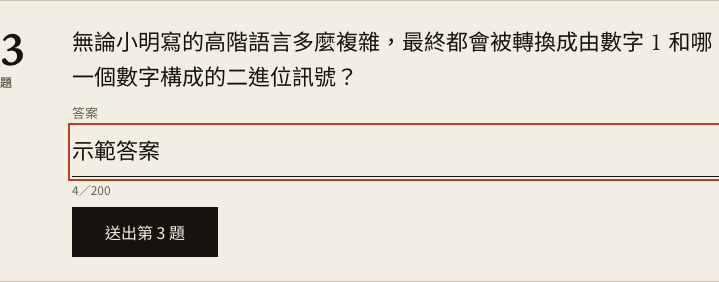
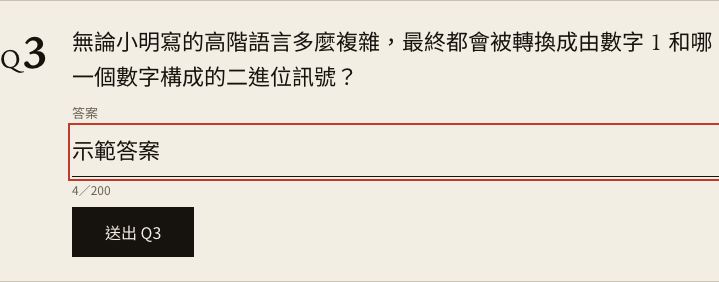
feat(web): 題號改成 Q1／Q2 形式（螢幕閱讀器仍讀「第 N 題」）

Changed region(s): [[0.1836, 0.7092, 0.306, 0.9362], [0.0, 0.1135, 0.0612, 0.3121]]

diff --git a/web/src/features/student/AnswerArea.tsx b/web/src/features/student/AnswerArea.tsx
@@ -1,6 +1,7 @@
 import { useRef, useState } from 'react';
 import type { StudentOpenAnswer, StudentOpenSnapshot, StudentQuestion } from '@classroom/shared';
 import { sendCommand } from '../../lib/socket';
+import { QuestionNumber } from '../shared/QuestionNumber';
 import { activateDraftSession, writeAnswerDrafts, type AnswerDraftMap } from './answerDrafts';
 import styles from './AnswerArea.module.css';
 
@@ -168,12 +169,8 @@ function AnswerAreaContent({ snapshot }: AnswerAreaProps) {
                 aria-labelledby={`question-${question.number}-title`}
               >
                 <h3 id={`question-${question.number}-title`} className={styles.questionTitle}>
-                  {/* 語意標籤只給螢幕閱讀器；視覺上是試卷上的大題號。 */}
-                  <span className={styles.visuallyHidden}>{`第 ${question.number} 題`}</span>
-                  <span className={styles.questionNumber} aria-hidden="true">
-                    <span className={styles.questionNumberValue}>{question.number}</span>
-                    <span className={styles.questionNumberUnit}>題</span>
-                  </span>
+                  {/* 語意標籤只給螢幕閱讀器；視覺上是 Q1／Q2。 */}
+                  <QuestionNumber number={question.number} />
                 </h3>
                 {/* 內容固定在右欄：題號欄不會被內容擠開（2026-11-19 review）。 */}
                 <div className={styles.questionBody}>
@@ -283,11 +280,27 @@ function AnswerAreaContent({ snapshot }: AnswerAreaProps) {
                     void submit(question);
                   }}
                 >
-                  {isSubmitted
-                    ? '已送出'
-                    : isSubmitting
-                      ? `送出第 ${question.number} 題中…`
-                      : `送出第 ${question.number} 題`}
+                  {/*
+                   * 可讀名稱維持中文「送出第 N 題」，視覺上是「送出 Q N」；
+                   * 已送出的狀態文字則原樣顯示（螢幕閱讀器讀「已送出」）。
+                   */}
+                  {isSubmitted ? (
+                    '已送出'
+                  ) : isSubmitting ? (
+                    <>
+                      <span className="visually-hidden">
+                        {`送出第 ${question.number} 題中…`}
+                      </span>
+                      <span aria-hidden="true">{`送出 Q${question.number} 中…`}</span>
+                    </>
+                  ) : (
+                    <>
+                      <span className="visually-hidden">
+                        {`送出第 ${question.number} 題`}
+                      </span>
+                      <span aria-hidden="true">{`送出 Q${question.number}`}</span>
+                    </>
+                  )}
                 </button>
                 </div>
               </section>

diff --git a/web/src/features/projector/ProjectorPage.tsx b/web/src/features/projector/ProjectorPage.tsx
@@ -2,6 +2,7 @@ import type { Phase, ProjectorSnapshot, Snapshot } from '@classroom/shared';
 import { Link } from 'react-router';
 import { Countdown } from '../shared/Countdown';
 import { phaseStyleClass } from '../shared/phaseStyle';
+import { QuestionNumber } from '../shared/QuestionNumber';
 import { TeacherLogin } from '../teacher/TeacherLogin';
 import styles from './ProjectorPage.module.css';
 
@@ -102,16 +103,7 @@ export function ProjectorPage({ snapshot }: ProjectorPageProps) {
               {projector.reveal.questions.map((entry) => (
                 <li key={entry.questionNumber} className={styles.revealItem}>
                   <span className={styles.revealNumber}>
-                    <span className={styles.revealNumberValue} aria-hidden="true">
-                      {entry.questionNumber}
-                    </span>
-                    <span className={styles.revealNumberUnit} aria-hidden="true">
-                      題
-                    </span>
-                    {/* 螢幕閱讀器用的「第 N 題」：視覺上隱藏，畫面只留大題號。 */}
-                    <span className={styles.visuallyHidden}>
-                      {`第 ${entry.questionNumber} 題`}
-                    </span>
+                    <QuestionNumber number={entry.questionNumber} />
                   </span>
                   <span
                     className={

diff --git a/web/src/features/teacher/AnswerBoard.tsx b/web/src/features/teacher/AnswerBoard.tsx
@@ -1,6 +1,7 @@
 import { useState } from 'react';
 import type { AnswerBoardCell, TeacherSnapshot } from '@classroom/shared';
 import { sendCommand } from '../../lib/socket';
+import { QuestionNumber } from '../shared/QuestionNumber';
 import styles from './AnswerBoard.module.css';
 
 export type AnswerBoardProps = {
@@ -131,7 +132,7 @@ export function AnswerBoard({ snapshot }: AnswerBoardProps) {
                 {snapshot.board.map((question) => (
                   <tr key={question.questionNumber}>
                     <th scope="row" className={styles.questionCell}>
-                      第 {question.questionNumber} 題
+                      <QuestionNumber number={question.questionNumber} />
                     </th>
                     {question.cells.map((cell) => {
                       const key = cellKey(cell);
@@ -237,7 +238,7 @@ export function AnswerBoard({ snapshot }: AnswerBoardProps) {
             <ul className={styles.progressList} aria-label="每一題已送出的組數">
               {snapshot.progress.perQuestion.map((entry) => (
                 <li key={entry.questionNumber}>
-                  第 {entry.questionNumber} 題：
+                  {`第 ${entry.questionNumber} 題：`}
                   {entry.submittedGroupCount} 組送出
                 </li>
               ))}

diff --git a/web/src/features/student/AnswerArea.module.css b/web/src/features/student/AnswerArea.module.css
@@ -54,6 +54,9 @@
 .questionTitle {
   grid-column: 1;
   grid-row: 1;
+  /* Q1／Q2 是這張紙上最大的字。 */
+  font-size: var(--font-size-display);
+  line-height: var(--line-height-display);
 }
 
 .questionBody {
@@ -63,39 +66,6 @@
   gap: var(--space-2);
   justify-items: stretch;
   min-width: 0;
-}
-
-/* 題號：大字襯線數字 + 小單位「題」。 */
-.questionNumber {
-  display: grid;
-  justify-items: start;
-  gap: var(--space-0);
-}
-
-.questionNumberValue {
-  font-family: var(--font-family-display);
-  font-size: var(--font-size-display);
-  font-weight: 600;
-  line-height: var(--line-height-display);
-}
-
-.questionNumberUnit {
-  font-family: var(--font-family-utility);
-  font-size: var(--font-size-caption);
-  letter-spacing: var(--letter-spacing-utility);
-  color: var(--color-ink-muted);
-}
-
-/* 只給螢幕閱讀器看的文字（題號的語意標籤）。 */
-.visuallyHidden {
-  position: absolute;
-  width: 1px;
-  height: 1px;
-  margin: -1px;
-  padding: 0;
-  overflow: hidden;
-  clip-path: inset(50%);
-  white-space: nowrap;
 }
 
 .prompt {
@@ -192,7 +162,7 @@
     gap: var(--space-2) var(--space-3);
   }
 
-  .questionNumberValue {
+  .questionTitle {
     font-size: var(--font-size-headline);
   }
 

diff --git a/web/src/features/teacher/QuestionList.tsx b/web/src/features/teacher/QuestionList.tsx
@@ -1,4 +1,5 @@
 import type { QuestionKind, QuestionSummary } from '@classroom/shared';
+import { QuestionNumber } from '../shared/QuestionNumber';
 import styles from './QuestionList.module.css';
 
 export type QuestionListProps = {
@@ -21,7 +22,9 @@ export function QuestionList({ questions }: QuestionListProps) {
         <ol className={styles.list} aria-label="已匯入題目">
           {questions.map((question) => (
             <li className={styles.question} key={question.number}>
-              <strong>{`第 ${question.number} 題`}</strong>
+              <strong>
+                <QuestionNumber number={question.number} />
+              </strong>
               <span className={styles.meta}>
                 {`${QUESTION_KIND_LABELS[question.kind]}，${question.blankCount} 個空格`}
               </span>

diff --git a/web/src/features/shared/QuestionNumber.tsx b/web/src/features/shared/QuestionNumber.tsx
@@ -1,0 +1,26 @@
+import styles from './QuestionNumber.module.css';
+
+export type QuestionNumberProps = {
+  /** 題號（1 起算）。 */
+  number: number;
+};
+
+/**
+ * 題號標記：視覺上顯示 **Q1／Q2**，螢幕閱讀器讀「第 1 題」。
+ *
+ * 2026-11-19 review：題號改成國際通用的 Q 編號（與「去掉中華感」一致）；
+ * 中文說法保留在隱藏文字裡，所以語意與無障礙不受影響。
+ */
+export function QuestionNumber({ number }: QuestionNumberProps) {
+  return (
+    <>
+      <span className="visually-hidden">{`第 ${number} 題`}</span>
+      <span className={styles.mark} aria-hidden="true">
+        <span className={styles.q}>Q</span>
+        <span className={styles.n}>{number}</span>
+      </span>
+    </>
+  );
+}
+
+export default QuestionNumber;

diff --git a/web/src/features/projector/ProjectorPage.module.css b/web/src/features/projector/ProjectorPage.module.css
@@ -144,33 +144,9 @@
   display: grid;
   justify-items: start;
   gap: 0;
-}
-
-/* 題號是這面牆上最大的字。 */
-.revealNumberValue {
-  font-family: var(--font-family-display);
+  /* Q1／Q2 是這面牆上最大的字。 */
   font-size: var(--font-size-display);
-  font-weight: 600;
   line-height: var(--line-height-display);
-}
-
-.revealNumberUnit {
-  font-family: var(--font-family-utility);
-  font-size: var(--font-size-caption);
-  letter-spacing: var(--letter-spacing-utility);
-  color: var(--color-ink-muted);
-}
-
-/* 只給螢幕閱讀器看的「第 N 題」，畫面上不顯示。 */
-.visuallyHidden {
-  position: absolute;
-  width: 1px;
-  height: 1px;
-  margin: -1px;
-  padding: 0;
-  overflow: hidden;
-  clip-path: inset(50%);
-  white-space: nowrap;
 }
 
 .revealWinner {

diff --git a/web/src/features/student/StudentResults.tsx b/web/src/features/student/StudentResults.tsx
@@ -1,4 +1,5 @@
 import type { StudentClosedSnapshot, StudentQuestion } from '@classroom/shared';
+import { QuestionNumber } from '../shared/QuestionNumber';
 import styles from './StudentResults.module.css';
 
 export type StudentResultsProps = {
@@ -62,7 +63,7 @@ export function StudentResults({ snapshot }: StudentResultsProps) {
                   id={`result-${question.number}-title`}
                   className={styles.questionTitle}
                 >
-                  第 {question.number} 題
+                  <QuestionNumber number={question.number} />
                 </h3>
                 {/* 內容放在同一個欄位裡：題號欄固定、內容欄自適應，
                     內容多一行（例如「本題因公平順位改判」）也不會擠到隔壁欄。 */}

diff --git a/web/src/features/shared/QuestionNumber.module.css b/web/src/features/shared/QuestionNumber.module.css
@@ -1,0 +1,23 @@
+/*
+ * 題號標記：視覺上是 Q1／Q2（拉丁襯線），螢幕閱讀器讀「第 1 題」。
+ * Q 比數字小一級、同一個襯線字型，看起來像編輯體的題號（2026-11-19 review：
+ * 題號改成國際通用的 Q 編號，與「去掉中華感」一致）。
+ */
+.mark {
+  display: inline-flex;
+  align-items: baseline;
+  gap: 0.04em;
+  font-family: var(--font-family-display);
+  font-variant-numeric: lining-nums;
+  white-space: nowrap;
+}
+
+.q {
+  font-size: 0.58em;
+  font-weight: 400;
+}
+
+.n {
+  font-size: 1em;
+  font-weight: 600;
+}

diff --git a/web/src/styles/base.css b/web/src/styles/base.css
@@ -63,6 +63,18 @@ input[type='radio'] {
   border-block-end: var(--border-width-thin) solid var(--color-rule);
 }
 
+/* 只給螢幕閱讀器看的文字（視覺上不出現，但可讀）。 */
+.visually-hidden {
+  position: absolute;
+  width: 1px;
+  height: 1px;
+  margin: -1px;
+  padding: 0;
+  overflow: hidden;
+  clip-path: inset(50%);
+  white-space: nowrap;
+}
+
 /* 欄標：小字、墨灰。中文不拉字距（拉了就有中文印刷的味道）。 */
 .utility-caption {
   font-family: var(--font-family-utility);

diff --git a/design/DESIGN.md b/design/DESIGN.md
@@ -109,6 +109,10 @@ Token：`--phase-preparing`（＝`--color-ink-muted`）、`--phase-open`（＝`-
 - **區塊標題**（搶答控制、匯入學習單、題目清單、組別管理、匯出結果、投影看板、作答看板）：
   **黑色、字級大於內文**（`--font-size-large`），仍保留一點寬字距的欄標感；
   不要用卡片＋陰影。
+- **題號用 Q1／Q2**：視覺上是拉丁襯線的 **Q1、Q2**（Q 小一級、數字大），
+  螢幕閱讀器仍讀「第 1 題」（`web/src/features/shared/QuestionNumber.tsx`）。
+  密集的**文字行**（匯入摘要的題目清單、看板的「N 組送出」進度列）維持中文
+  「第 N 題」，避免一句話裡出現兩套說法（2026-11-19 review）。
 - **區塊之間只留一條線**：每個區塊只畫**下框線**（`border-block-end`），不要上下都畫——
   否則相鄰區塊之間會出現兩條線，看起來像「雙下巴」（2026-11-19 review）。
   第一個區塊的上線由頁首的分隔線代替，最後一個區塊保留下框線收尾。
